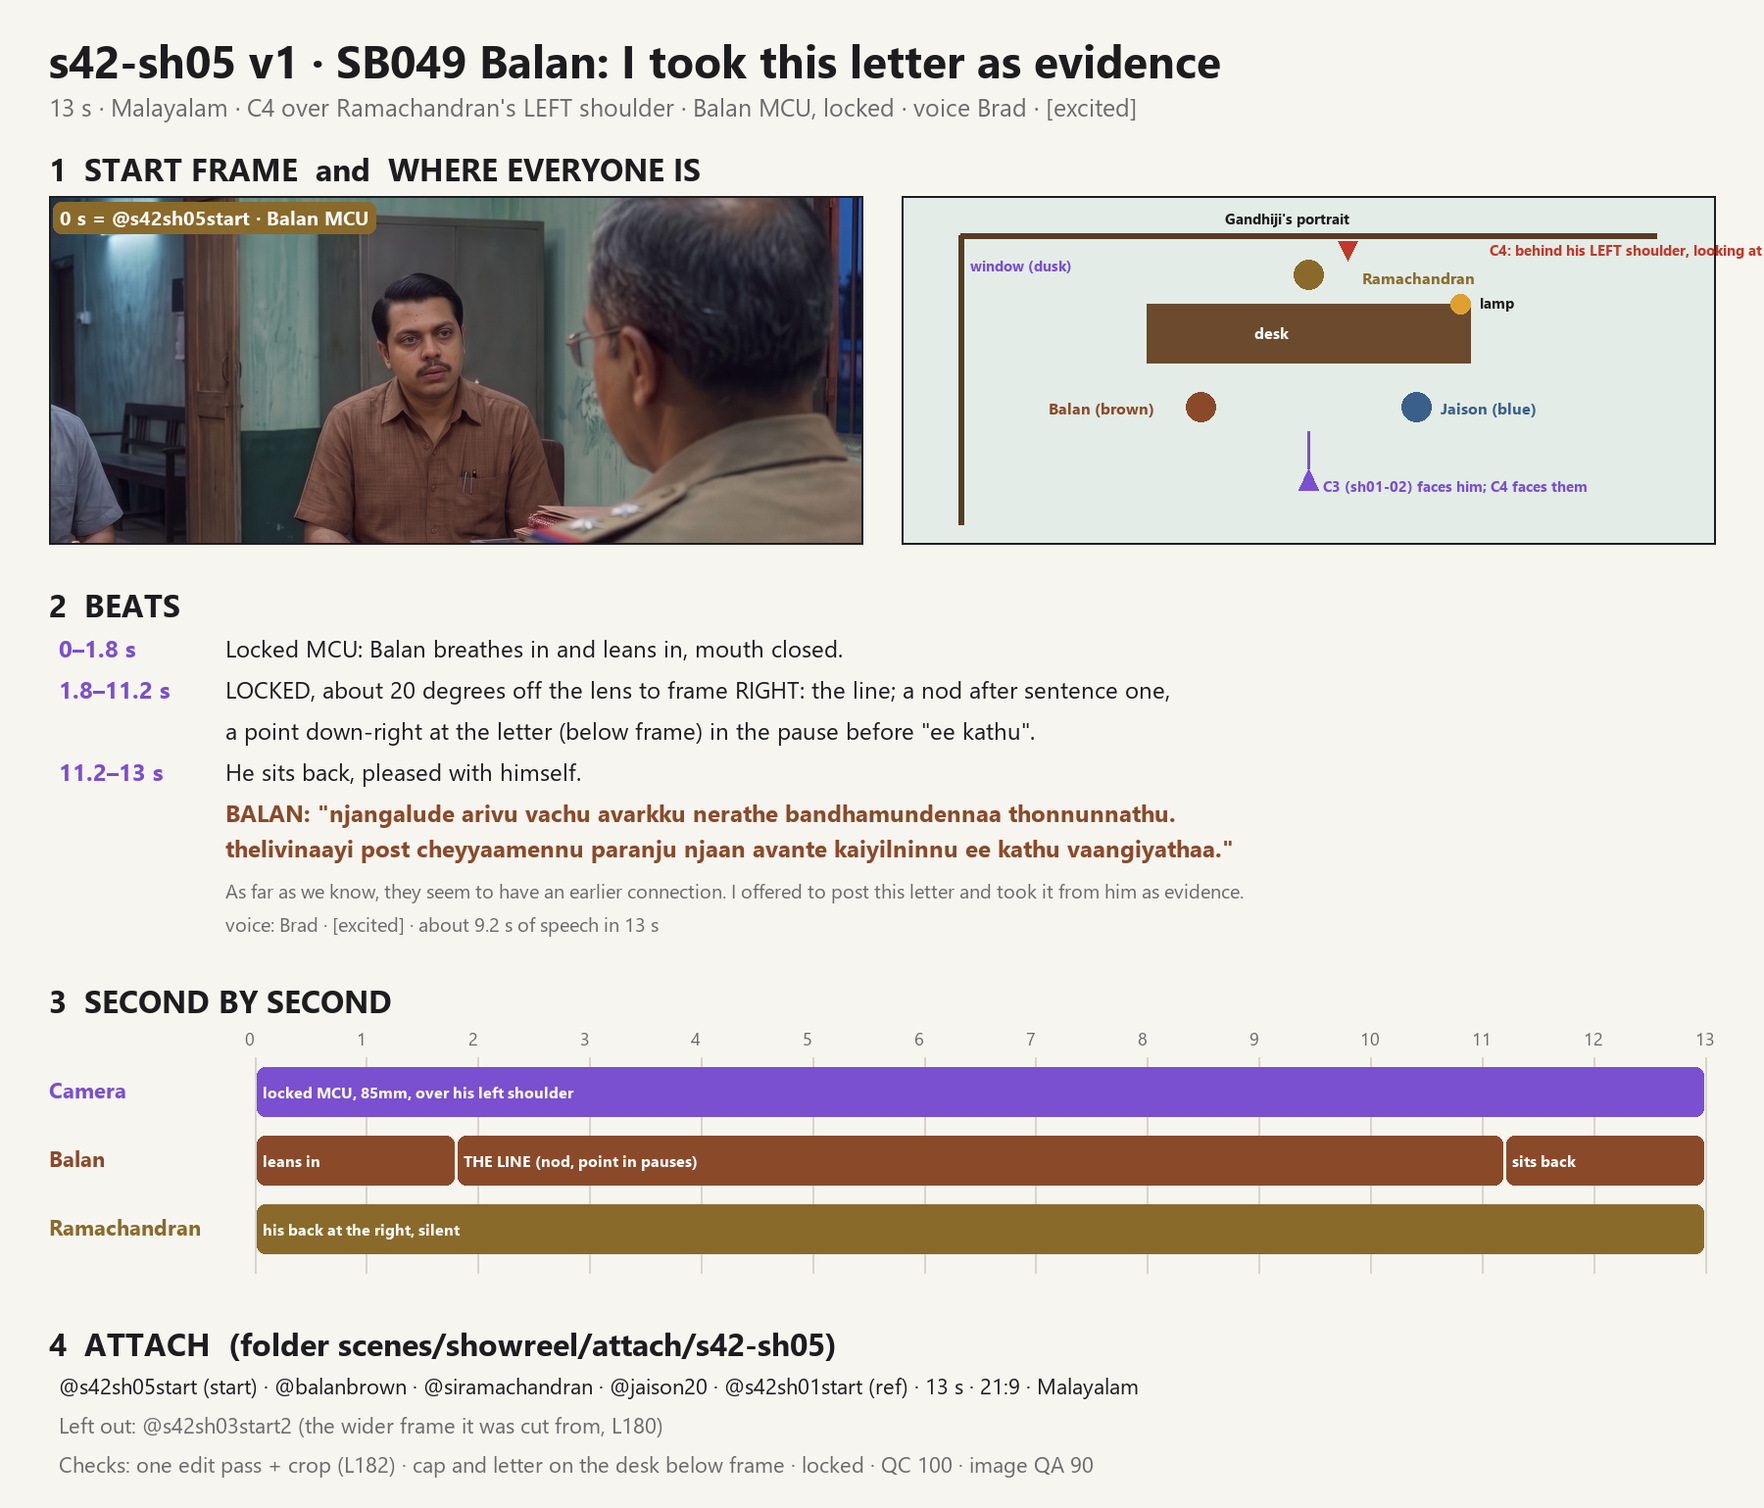
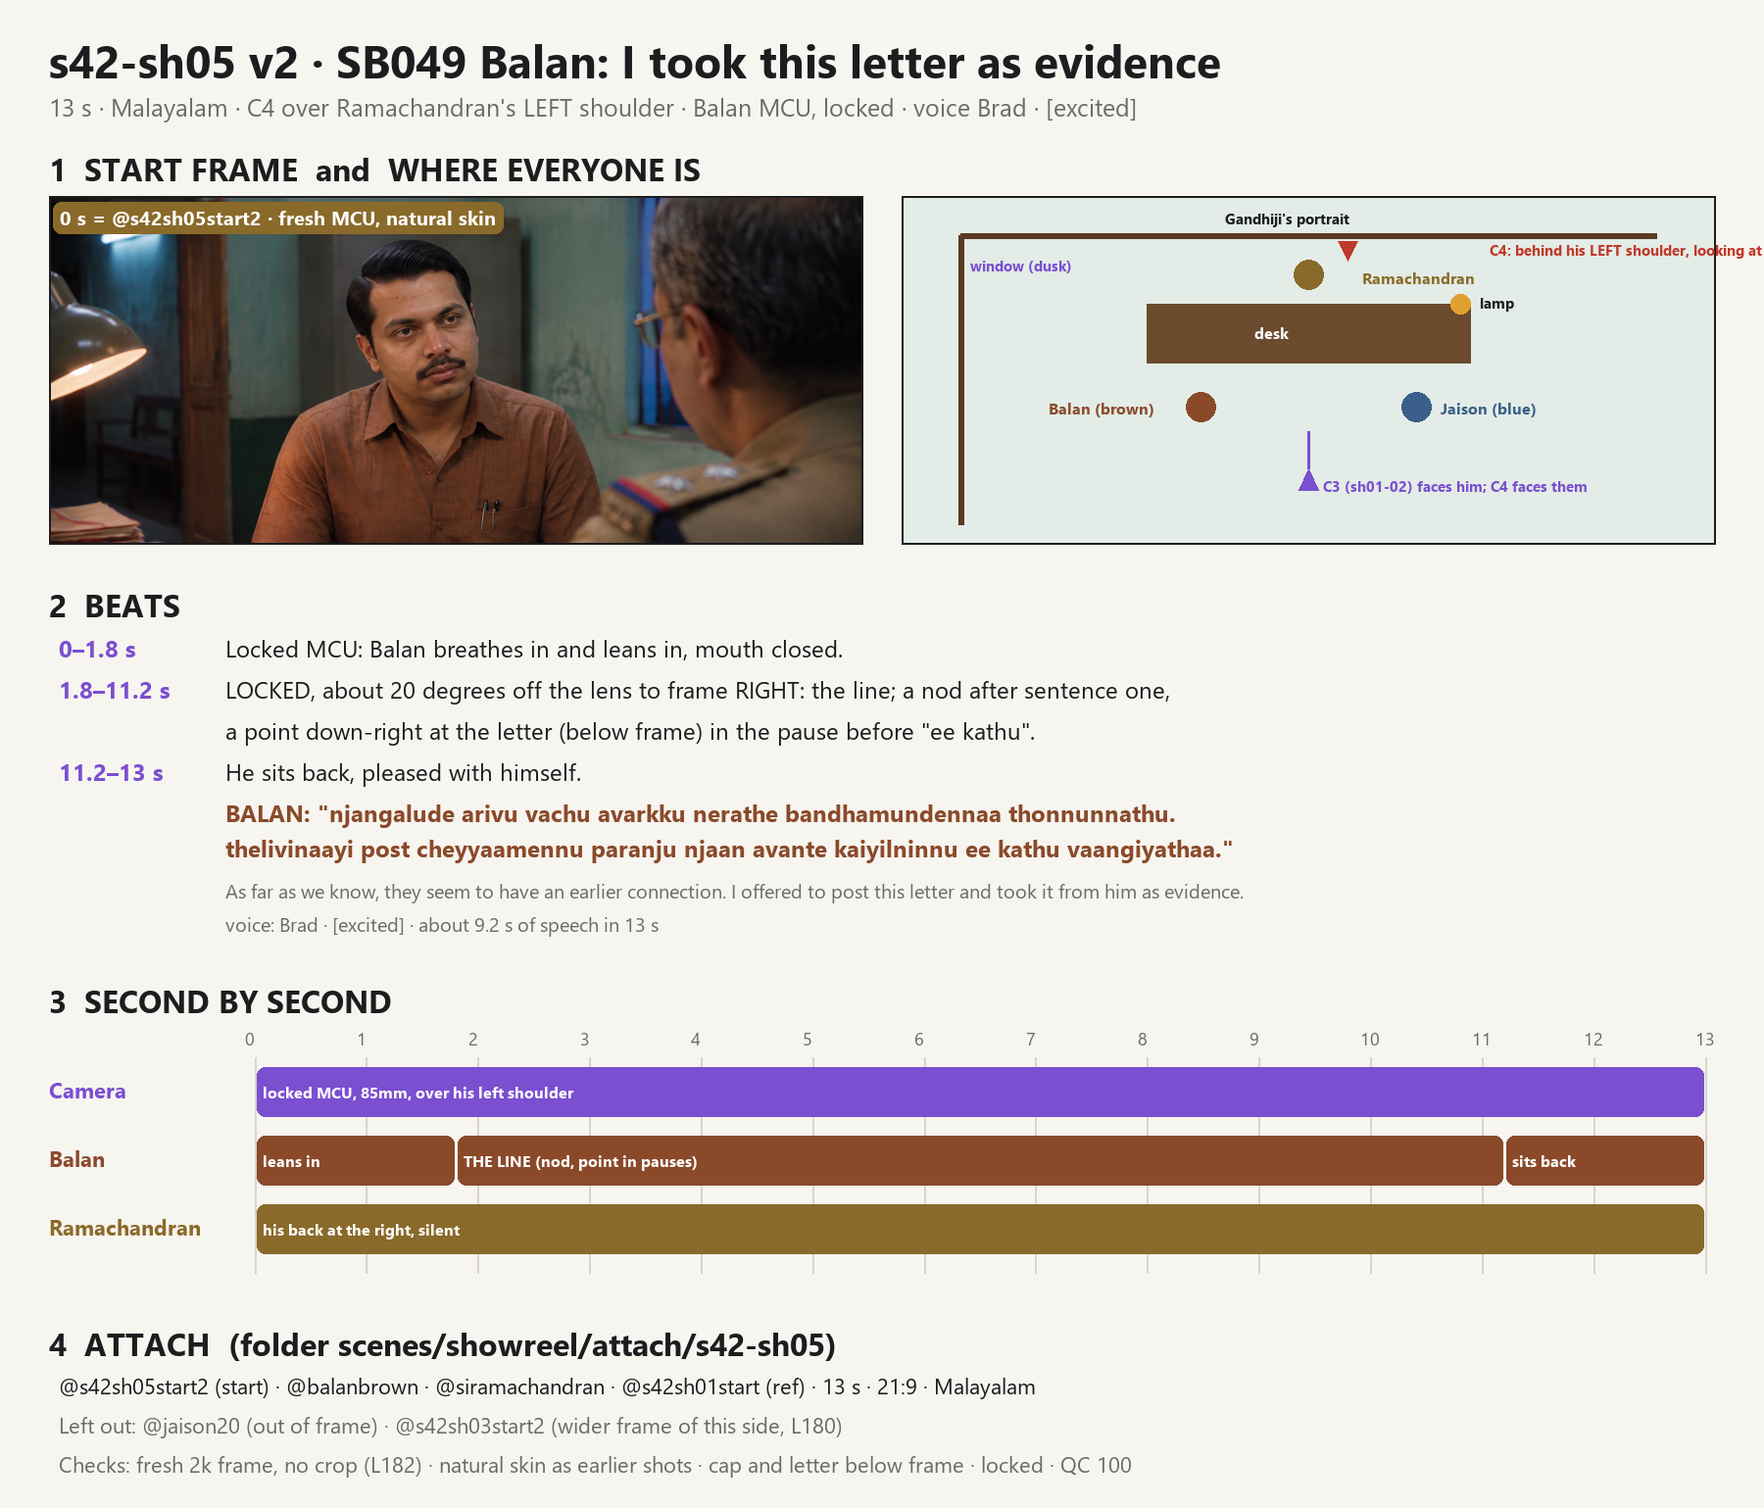
Ranjith: shot: s42-sh05 v2 (fresh start frame, natural skin)

Changed region(s): [[0.0311, 0.1248, 0.4978, 0.3743], [0.0933, 0.9045, 0.6533, 0.9981], [0.1556, 0.0312, 0.1867, 0.0624]]

diff --git a/tools/shotsheets/s42-sh05.py b/tools/shotsheets/s42-sh05.py
@@ -12,17 +12,17 @@ def tag(xy, text, col, f=None):
     f = f or F(20, True); x, y = xy; tw = d.textlength(text, font=f)
     d.rounded_rectangle([x - 6, y - 4, x + tw + 8, y + 28], 8, fill=col); d.text((x + 1, y - 2), text, font=f, fill="white")
 
-d.text((50, 30), "s42-sh05 v1 · SB049 Balan: I took this letter as evidence", font=F(46, True), fill=INK)
+d.text((50, 30), "s42-sh05 v2 · SB049 Balan: I took this letter as evidence", font=F(46, True), fill=INK)
 d.text((50, 92), "13 s · Malayalam · C4 over Ramachandran's LEFT shoulder · Balan MCU, locked · voice Brad · [excited]", font=F(25), fill=GREY)
 
 y0 = 150
 d.text((50, y0), "1  START FRAME  and  WHERE EVERYONE IS", font=F(32, True), fill=INK)
 pw = 830; ph = int(pw / 2.333)
-src = "approved/sb049-station/s42-sh05-start.png"
-p = "scenes/showreel/" + src if os.path.exists("scenes/showreel/" + src) else "scenes/showreel/image-qa/candidates/s42-sh05-start.png"
+src = "approved/sb049-station/s42-sh05-start2.png"
+p = "scenes/showreel/" + src if os.path.exists("scenes/showreel/" + src) else "scenes/showreel/image-qa/candidates/s42-sh05-start2.png"
 a = Image.open(p).convert("RGB").resize((pw, ph))
 im.paste(a, (50, y0 + 50)); d.rectangle([50, y0 + 50, 50 + pw, y0 + 50 + ph], outline=INK, width=2)
-tag((60, y0 + 60), "0 s = @s42sh05start · Balan MCU", RAM)
+tag((60, y0 + 60), "0 s = @s42sh05start2 · fresh MCU, natural skin", RAM)
 sx, sy, sw, sh = 920, y0 + 50, 830, ph
 d.rectangle([sx, sy, sx + sw, sy + sh], fill="#e3ece6", outline=INK, width=2)
 # room: back wall at top
@@ -71,9 +71,9 @@ for i, (lab, col, segs) in enumerate(rows):
 
 y3 = ty + 70 * len(rows) + 60
 d.text((50, y3), "4  ATTACH  (folder scenes/showreel/attach/s42-sh05)", font=F(32, True), fill=INK)
-d.text((60, y3 + 50), "@s42sh05start (start) · @balanbrown · @siramachandran · @jaison20 · @s42sh01start (ref) · 13 s · 21:9 · Malayalam", font=F(22), fill=INK)
-d.text((60, y3 + 90), "Left out: @s42sh03start2 (the wider frame it was cut from, L180)", font=F(22), fill=GREY)
-d.text((60, y3 + 130), "Checks: one edit pass + crop (L182) · cap and letter on the desk below frame · locked · QC 100 · image QA 90", font=F(22), fill=GREY)
+d.text((60, y3 + 50), "@s42sh05start2 (start) · @balanbrown · @siramachandran · @s42sh01start (ref) · 13 s · 21:9 · Malayalam", font=F(22), fill=INK)
+d.text((60, y3 + 90), "Left out: @jaison20 (out of frame) · @s42sh03start2 (wider frame of this side, L180)", font=F(22), fill=GREY)
+d.text((60, y3 + 130), "Checks: fresh 2k frame, no crop (L182) · natural skin as earlier shots · cap and letter below frame · locked · QC 100", font=F(22), fill=GREY)
 im = im.crop((0, 0, W, y3 + 190))
 im.save("scenes/showreel/storyboards/s42-sh05-clear.png")
 print(im.size)

diff --git a/scenes/showreel/s42-sh05.md b/scenes/showreel/s42-sh05.md
@@ -1,20 +1,21 @@
-# s42-sh05 · SB049 (Ref 42A) — Balan: "I took this letter as evidence" · 13 s · v1
-Status: **ready (Ranjith, 2026-11-24)** · Malayalam dialogue · start image `@s42sh05start` (camera C4, Balan in a medium close-up over Ramachandran's left shoulder)
+# s42-sh05 · SB049 (Ref 42A) — Balan: "I took this letter as evidence" · 13 s · v2
+Status: **ready v2 (Ranjith, 2026-11-24)** · Malayalam dialogue · start image `@s42sh05start2` (camera C4, Balan in a medium close-up over Ramachandran's left shoulder)
 Created by: Ranjith
+v2 (Ranjith, 2026-11-24): the v1 start frame looked plastic ("start frame looks too plastic"): an edit pass plus a crop enlarged 1.55x (L182). New start frame `@s42sh05start2` generated fresh at Balan's medium close-up with GPT Image 2.6 at 2688 px (no crop, no upscale), his skin matched to the earlier shots ("previus shots does not have pores"; Ranjith's frame of the sh03 v2 take): natural and lightly textured, neither heavily pored nor waxy. Jaison is out of frame. `@s42sh05start` is retired.
 Ask (Ranjith, 2026-11-24): "next shot". Camera: **Use this camera move** (C4 reverse, already in Balan's MCU, locked; the point at the letter in the pause before "ഈ കത്ത്").
 Story: SB049, line 4, the end of the panel. Balan says that as far as they know Antony and the man were connected before, and that he took this letter from him as evidence, offering to post it: the betrayal in his own words.
 Continuity: after the sh03b insert and sh04, the cap is on the desk (not the files) and the letter lies flat under Ramachandran's right hand; from this side both are on the desk just below the frame (the cap at his left, back to camera; the letter at the lower right under his hand). Ranjith's frame of the sh04 take ("for ur reference") confirmed his hands resting on the desk.
-Start frame: ONE edit pass on `@s42sh03start2` (cap moved to the desk, letter under his hand; L182 allows two), then cropped toward Balan to his medium close-up (no extra generation).
+Start frame (v2): one fresh generation (GPT Image 2.6, 2k) at Balan's medium close-up from the first shot `@s42sh01start`, `@s42sh03start2`, the sheets and a test frame; the cap and letter are on the desk below the frame.
 Dialogue (storyboard SB049, authoritative Manglish: naghalude arivu vach avarke nerthe bentham ind yanna thonune . njan appol thelivinnu avante kayil ninum ee kath post chyam yann parangyu vangiyathanu): BALAN — ഞങ്ങളുടെ അറിവുവച്ച് അവർക്ക് നേരത്തേ ബന്ധമുണ്ടെന്നാ തോന്നുന്നത്. തെളിവിനായി പോസ്റ്റ് ചെയ്യാമെന്നു പറഞ്ഞ് ഞാൻ അവന്റെ കൈയിൽനിന്ന് ഈ കത്ത് വാങ്ങിയതാ.
 MANG: njangalude arivu vachu avarkku nerathe bandhamundennaa thonnunnathu. thelivinaayi post cheyyaamennu paranju njaan avante kaiyilninnu ee kathu vaangiyathaa.
 EN: As far as we know, they seem to have an earlier connection. I offered to post this letter and took it from him as evidence.
 Voice: Balan = **Brad** (voices/VOICES.md). Emotion (one for the shot): [excited] — eager to please, confiding, proud of his "evidence".
 Lessons applied: L172 (about 9 s of speech in 13 s, about 70%), L182 (one edit pass only, then a crop), L180 (no room plate from the same angle), station rule (`@s42sh01start` as the continuity reference), dialogue block verbatim, the camera locked, the gesture only in a pause, checklist 195 and 201.
-Attach: `@s42sh05start` (start image), `@balanbrown` (full), `@siramachandran` (full, his back and left shoulder at the right edge), `@jaison20` (full, a sliver at the left edge), `@s42sh01start` (reference for continuity: room, props, light). No end image. Remove every other attachment (L88). **13 s.** 21:9, Malayalam.
-Left out: `@s42sh03start2` (the wider frame this one was cut from; it would play as an opening shot, L180).
-Image QA of @s42sh05start: 90/100. Photographic (one edit pass, L182): Balan (brown, pens, mouth closed) in a medium close-up right of centre looking frame right; Ramachandran's khaki back, left shoulder with the starred epaulette and the arm of his glasses at the RIGHT; the office door open to the tube-lit corridor at the LEFT, a sliver of Jaison's blue shirt at the left edge; the dusk window at the far right. Cropped from a 2027 px region and scaled to 3136 px: a little softer than a native frame.
+Attach: `@s42sh05start2` (start image), `@balanbrown` (full), `@siramachandran` (full, his back and left shoulder at the right edge), `@s42sh01start` (reference for continuity: room, props, light). No end image. Remove every other attachment (L88). **13 s.** 21:9, Malayalam.
+Left out: `@jaison20` (out of frame at this size); `@s42sh03start2` (the wider frame of this side; it would play as an opening shot, L180).
+Image QA of @s42sh05start2: 90/100. Fresh GPT Image 2.6 frame at 2688 px: Balan (brown, pens, oiled side-parted hair) in a medium close-up right of centre, eyes on Ramachandran at the right, mouth closed; natural, lightly textured skin matching the earlier shots; Ramachandran's khaki left shoulder with the starred epaulette and the arm of his glasses at the right; the lit lamp, the open door and the tube-lit corridor at the left; the steel almirah behind; dusk blue at the right. Flag: his moustache reads a little fuller than on the sheet.
 PROMPT QA — s42-sh05 v1 · Score 100/100 · Ready (qc_panel.py 100).
-Platform: upload `approved/sb049-station/s42-sh05-start.png` as `@s42sh05start`.
+Platform: upload `approved/sb049-station/s42-sh05-start2.png` as `@s42sh05start2`.
 Attach folder: `scenes/showreel/attach/s42-sh05/`
 Storyboard: `storyboards/s42-sh05-clear.png` (never attached)
 
@@ -25,16 +26,15 @@ Dusk, 1998, the SI's office in a small coastal police station in Kerala, seen fr
 SPOKEN LANGUAGE: Malayalam. Every spoken word in this video is the exact Malayalam text given in quotes in AUDIO. No English words are spoken.
 
 MEMORY
-Place: the SI's office exactly as in the start frame, seen from behind the desk: faded sea-green lime-washed walls with a dark green dado; a grey steel almirah behind Balan; the plank office door open at the LEFT onto a corridor lit by a cool tube light, a wooden bench in the corridor; the barred window with the deep-blue dusk at the far RIGHT edge. Just below the frame on the desk: Ramachandran's cap resting on the desk and the letter lying flat under his right hand.
-People: Balan in the cane chair, right of centre, in a medium close-up, facing the camera. Ramachandran's back, the back of his head, the arm of his glasses and his LEFT shoulder in the khaki uniform with the starred epaulette, large and soft at the RIGHT, his back to the camera. A sliver of Jaison's blue shirt at the LEFT edge.
+Place: the SI's office exactly as in the start frame, seen from behind the desk: faded sea-green lime-washed walls with a dark green dado; a grey steel almirah behind Balan; the plank office door open at the LEFT onto a corridor lit by a cool tube light, a wooden bench in the corridor; the steel desk lamp switched on at the far LEFT edge; the barred window with the deep-blue dusk behind Ramachandran at the RIGHT. Just below the frame on the desk: Ramachandran's cap resting on the desk and the letter lying flat under his right hand.
+People: Balan in the cane chair, right of centre, in a medium close-up, facing the camera. Ramachandran's back, the back of his head, the arm of his glasses and his LEFT shoulder in the khaki uniform with the starred epaulette, large and soft at the RIGHT, his back to the camera. Jaison sits out of frame to the left.
 Light: the warm desk lamp about 3200K from the frame LEFT on Balan's face; the cool blue dusk from the window at the right; the cool tube light in the corridor behind.
-FIRST FRAME (0.0s): exactly the start frame: Balan in a medium close-up right of centre, mouth closed, eyes on Ramachandran at the right; Ramachandran's khaki shoulder and head at the right; the open door and corridor at the left.
+FIRST FRAME (0.0s): exactly the start frame: Balan in a medium close-up right of centre, mouth closed, eyes on Ramachandran at the right; Ramachandran's khaki shoulder and head at the right; the open door and corridor and the lit lamp at the left.
 
 ACTIVE REFERENCES
-@s42sh05start (start frame, 0.0s): the exact first frame: Balan in a medium close-up over Ramachandran's left shoulder, the open door and corridor at the left, the steel almirah behind him, the dusk window at the far right. Everything starts exactly as in this image.
+@s42sh05start2 (start frame, 0.0s): the exact first frame: Balan in a medium close-up over Ramachandran's left shoulder, the lit lamp and the open door and corridor at the left, the steel almirah behind him, the dusk window behind Ramachandran at the right. Everything starts exactly as in this image.
 @balanbrown (full, 0.0s–13.0s): Balan, the only speaker: about 35, oiled black hair with a side parting, a thin moustache, acne marks, the brown half-sleeve shirt with two pens in the left pocket. A native Malayalam speaker from the Kollam coast; a quick, eager, slightly nasal male voice. 100% matches the reference.
 @siramachandran (full, 0.0s–13.0s): Ramachandran seen only from behind at the RIGHT: greying side-parted hair, the arm of his glasses, the khaki uniform with the starred epaulette and the red-and-blue strip on his left shoulder. He never speaks in this shot and his face is never seen. 100% matches the reference.
-@jaison20 (full, 0.0s–13.0s): only a sliver of Jaison's muted-blue shirt at the left edge. He never speaks. 100% matches the reference.
 @s42sh01start (reference for continuity, 0.0s–13.0s): the first shot of the scene: the same room, desk props, cap, lamp, files and dusk light, seen from the other side; take the room, the props, the light and the costumes from it; it is never shown as its own shot. 100% matches the reference.
 
 BALAN'S ANSWER (most important)
@@ -77,16 +77,16 @@ Spoken language: Malayalam only, not English and not a translation. Balan says t
 [excited]
 1.8s to 11.2s: Balan, Kollam coastal accent, a quick, eager male voice; the first sentence lower and confiding, the stress on "നേരത്തേ"; a short pause with a nod; the second sentence quicker and proud, the stress on "തെളിവിനായി"; a tiny pause before "ഈ കത്ത്" while he points; the end "വാങ്ങിയതാ" falling, satisfied. About 9.2 seconds.
 "ഞങ്ങളുടെ അറിവുവച്ച് അവർക്ക് നേരത്തേ ബന്ധമുണ്ടെന്നാ തോന്നുന്നത്. തെളിവിനായി പോസ്റ്റ് ചെയ്യാമെന്നു പറഞ്ഞ് ഞാൻ അവന്റെ കൈയിൽനിന്ന് ഈ കത്ത് വാങ്ങിയതാ."
-Nobody else speaks. Ramachandran and Jaison keep their mouths closed. From 11.2s to 13.0s nobody speaks.
+Nobody else speaks. Ramachandran keeps his mouth closed. From 11.2s to 13.0s nobody speaks.
 
 STYLE
 Photoreal 1998 Kerala period feature film. Every frame looks like real footage filmed in a real small police-station office, never like VFX or CGI: real skin and cloth, real wood, paper and lime-washed walls, every person sitting in the same light as the rest of the room, with soft natural edges and real contact shadows; no composited or pasted-in look, no 3D-render or game look. 24fps, fine 35mm grain, gentle halation on the lamp and the window, visible skin texture and real pores, no smoothing. Shot on a Sony Venice 2 full-frame digital cinema camera: very wide dynamic range that holds the brightest light and the deepest shade in one frame; clean, low-noise shadows; soft, gradual highlight roll-off; accurate, natural colour with rich, true skin tones; gentle filmic contrast; fine, organic texture; no over-sharpening, no glossy or video look. Dusk: warm lamp, blue window.
 
 CONSTRAINTS
-The shot starts exactly on the start frame and the room never changes. Exactly three people: Balan facing the camera, Ramachandran's back and left shoulder at the right, a sliver of Jaison at the left edge. Balan stays in the brown shirt; Ramachandran stays in khaki with his back to the camera. While Balan speaks his is the only face speaking. The camera never moves. The cap and the letter stay on the desk below the frame. Nobody comes through the door. Nothing fades in or out. No readable words anywhere. No English words, no subtitles. No cut, no zoom.
+The shot starts exactly on the start frame and the room never changes. Exactly two people in frame: Balan facing the camera and Ramachandran's back and left shoulder at the right; Jaison stays out of frame. Balan stays in the brown shirt; Ramachandran stays in khaki with his back to the camera. While Balan speaks his is the only face speaking. The camera never moves. The cap and the letter stay on the desk below the frame. Nobody comes through the door. Nothing fades in or out. No readable words anywhere. No English words, no subtitles. No cut, no zoom.
 
 POSITIVE LOCKS
-Starts on the start frame. Real photographic skin, walls and light, never painted or cartoon-like. Exactly one Malayalam line, Balan's, spoken once in Malayalam from 1.8s to 11.2s, his face about 20 degrees off the lens to frame right, toward Ramachandran; one nod and one point at the letter, only in pauses. The camera locked. Runs the full 13 seconds.
+Starts on the start frame. Real photographic skin as in the earlier shots, natural and lightly textured, never waxy, plastic, painted or cartoon-like. Exactly one Malayalam line, Balan's, spoken once in Malayalam from 1.8s to 11.2s, his face about 20 degrees off the lens to frame right, toward Ramachandran; one nod and one point at the letter, only in pauses. The camera locked. Runs the full 13 seconds.
 
 INTENT: When @balanbrown says "ഞങ്ങളുടെ അറിവുവച്ച് അവർക്ക് നേരത്തേ ബന്ധമുണ്ടെന്നാ തോന്നുന്നത്. തെളിവിനായി പോസ്റ്റ് ചെയ്യാമെന്നു പറഞ്ഞ് ഞാൻ അവന്റെ കൈയിൽനിന്ന് ഈ കത്ത് വാങ്ങിയതാ." let it be a small man proudly handing over his evidence, not hearing that he has just confessed to taking it.
 ```

diff --git a/scenes/showreel/attach/s42-sh05/README.md b/scenes/showreel/attach/s42-sh05/README.md
@@ -1,2 +1,2 @@
-# s42-sh05 attach
-@s42sh05start (start) · @balanbrown · @siramachandran · @jaison20 (all full) · @s42sh01start (REF: reference for continuity, never the start image). 13 s, 21:9, Malayalam. Voice: Brad.
+# s42-sh05 v2 attach
+@s42sh05start2 (start) · @balanbrown · @siramachandran (all full) · @s42sh01start (REF: reference for continuity, never the start image). 13 s, 21:9, Malayalam. Voice: Brad.
